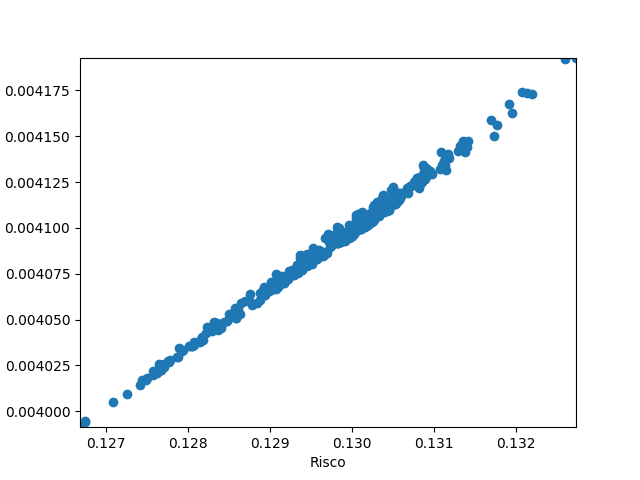
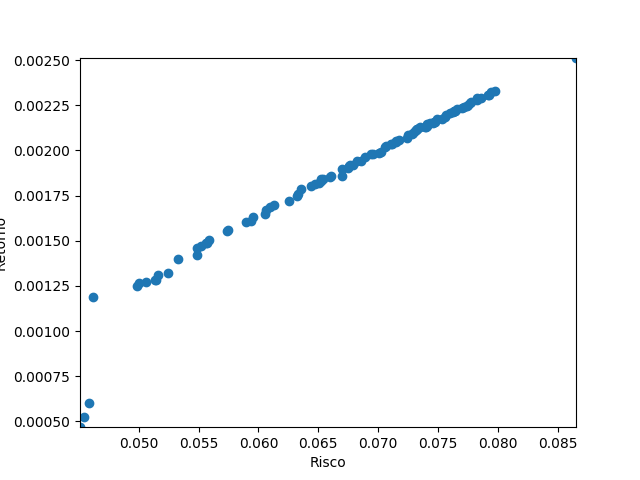
nds funcionando

diff --git a/operadores.py b/operadores.py
@@ -7,25 +7,29 @@ from math import ceil
 import sys
 
 def crossover(populacao):
-    pop = copy.copy(eleicao(populacao))
+    pop = (eleicao(populacao)).copy()
     novaPop = []
     #seleciona os pais
-    for i in range(ceil(TAM_POP/2)):
+    for i in range(ceil(len(pop)/2)):
         while True:
-            print("1")
+            # print("1")
             probabilidade = random.random()
-            carteira = pop[random.randint(0,TAM_POP-1)]
-            print("fitness: " + str(carteira.fitness()))
-            print("denominador: " + str(pop[TAM_POP-1].fitness()))
-            if(probabilidade <= (carteira.fitness()/pop[TAM_POP-1].fitness())):
+            carteira = pop[random.randint(0,len(pop)-1)]
+            if(probabilidade <= (carteira.fitness()/pop[len(pop)-1].fitness())):
                 pai1 = copy.copy(carteira)
+                contt = 0
                 while True:
-                    print("2")
+                    contt+=1
+                    # print("2")
                     probabilidade = random.random()
-                    carteira = pop[random.randint(0,TAM_POP-1)]
-                    print("prob:" + str(probabilidade))
-                    print("div: " + str(carteira.fitness()/pop[TAM_POP-1].fitness()))
-                    if(probabilidade <= (carteira.fitness()/pop[TAM_POP-1].fitness())):
+                    carteira = pop[random.randint(0,len(pop) - 1)]
+                    # print("prob: ", probabilidade)
+                    # print("primeiro: ", carteira.fitness())
+                    if(pop[len(pop) - 1].fitness() < 0):
+                        print("segundo: ", pop[len(pop) - 1].fitness())
+                        print(contt)
+                    # print("fitness: ", carteira.fitness()/pop[len(pop) - 1].fitness())
+                    if(probabilidade <= (carteira.fitness()/pop[len(pop) - 1].fitness())):
                         if(pai1.getId() != carteira.getId()):
                             pai2 = copy.copy(carteira)
                             break
@@ -47,12 +51,6 @@ def crossover(populacao):
         pop.append(filho1)
         pop.append(filho2)
     
-   # pop = eleicao(pop).copy()
-
-    #novaPop contém os N (tamanho da população) melhores portfólios
-
-    # for i in range(len(pop)-1, 0, -1):
-    #     novaPop.append(pop[i])
 
     return pop
 
@@ -103,9 +101,9 @@ def nds(pop):
         if p.getContador_n() == 0:
             p.setRank(1)
             fronteira[0].append(p)
+    
     i = 0
-
-    while(fronteira):
+    while(fronteira[i]):
         Q = []
         for p in fronteira[i]:
             for q in p.getDominadas():
@@ -114,9 +112,10 @@ def nds(pop):
                     q.setRank(i+1)
                     Q.append(q)
         i+=1
+
         if(len(fronteira) == i):
             fronteira.append([])
-        fronteira[i].append(Q)
+        fronteira[i] = Q.copy()
     
     return fronteira
 
@@ -130,12 +129,19 @@ def crowding_distance(fronteira):
         if m == 1:
             pop_ord = sorted(fronteira,key=retornoKey)
             # for i in pop_ord:
-        else:
-            pop_ord = sorted(fronteira, key=riscoKey)
             pop_ord[0].setDist_crowd(sys.maxsize)
             pop_ord[n-1].setDist_crowd(sys.maxsize)
-            for j in range(2, n-2):
-                pop_ord[j].setDist_crowd(pop_ord[j].getCrowd_dist() + (pop_ord[j+1].getCrowd_dist() - pop_ord[j-1].getCrowd_dist()))
+            for j in range(1, n-2, 1):
+                pop_ord[j].setDist_crowd(pop_ord[j].getDist_crowd() + 
+                (pop_ord[j+1].getDist_crowd() - pop_ord[j-1].getDist_crowd())/(pop_ord[n-1].getRetorno() - pop_ord[0].getRetorno()))
+        else:
+            pop_ord = sorted(fronteira, key=riscoKey)
+
+            pop_ord[0].setDist_crowd(sys.maxsize)
+            pop_ord[n-1].setDist_crowd(sys.maxsize)
+            for j in range(1, n-2, 1):
+                pop_ord[j].setDist_crowd(pop_ord[j].getDist_crowd() + 
+                (pop_ord[j+1].getDist_crowd() - pop_ord[j-1].getDist_crowd())/(pop_ord[n-1].getRisco() - pop_ord[0].getRisco()))
     return pop_ord
 
 def filtragem(populacao_entrada):
@@ -152,9 +158,15 @@ def filtragem(populacao_entrada):
             cont += tam
         else:
             aux = crowding_distance(fronteiras[i])
-            pop_linha.append(aux[:p-cont])
+            pop_linha.append(aux[0:p-cont])
             cont += (p-cont)
         i += 1
-        if(cont != p):
+        if(cont == p):
             break
-    return pop_linha
+
+    pop = []
+    for i in pop_linha:
+        for j in i:
+            pop.append(j)
+    
+    return pop

diff --git a/nsga2.py b/nsga2.py
@@ -119,7 +119,6 @@ class Carteira:
         # print("Fitness: " + str(self.fitness()))
 
     def fitness(self):
-        print("ret: " + str(self.retorno) + " risco: " + str(self.risco))
         return self.retorno/self.risco
 
     def getIndexPeloAtivo(self, ativo):
@@ -159,9 +158,7 @@ def inicializa():
         i.setRisco(ris)
         ret = sum(retorno(i.getCotacoes()))/len(i.getCotacoes())
         i.setRetorno(ret)
-    
-    for i in listaAtivos:
-        print(i.getRetorno())
+  
 
 def populacao_inicial():
     global populacao
@@ -197,38 +194,40 @@ def cvar(ativo):
 
     return [(cvar95), (cvar99), (cvar999)]
 
-def otimiza():
-    global populacao
-    popCrossover = crossover(populacao)
-    populacaoMutacao = mutacao(popCrossover)
-    popfiltragem = filtragem(populacaoMutacao)
-    populacao = popfiltragem.copy()
+def otimiza(populacao_filtrada):
+    # global populacao
+    popCrossover = crossover(populacao_filtrada)
+    populacaoMutada = mutacao(popCrossover)
+    return filtragem(populacaoMutada).copy()
 
 def main():
-
-    print("..")
+    global populacao
     inicializa()
     populacao_inicial()
-    print("oi")
-    filtragem(populacao)
-    
-    
+    pop_filtrada = filtragem(populacao)
 
+    # print("AQUI")
+    # for carteira in pop_filtrada:
+    #     for i in carteira:
+    #         i.printCarteira()
+
+    #GRAFICO INICIAL
     x1 = []
     y1 = []
-    for carteira in populacao:
+    
+    for carteira in pop_filtrada:
         x1.append(carteira.getRisco())
         y1.append(carteira.getRetorno())
 
     for i in range(ITERACOES):
-        otimiza()
+        pop = otimiza(pop_filtrada).copy()
+        pop_filtrada = pop.copy()
 
-    #rint("------------------------------------")
-    #printPopulacao(populacao)
-    
+
+    #GRAFICO FINAL
     x2 = []
     y2 = []
-    for carteira in populacao:
+    for carteira in pop_filtrada:
         x2.append(carteira.getRisco())
         y2.append(carteira.getRetorno())
 

diff --git a/globais.py b/globais.py
@@ -1,5 +1,5 @@
-TAM_POP = 10
+TAM_POP = 500
 CARDINALIDADE = 9
-ITERACOES = 2
+ITERACOES = 50
 listaAtivos = []
 populacao = []
